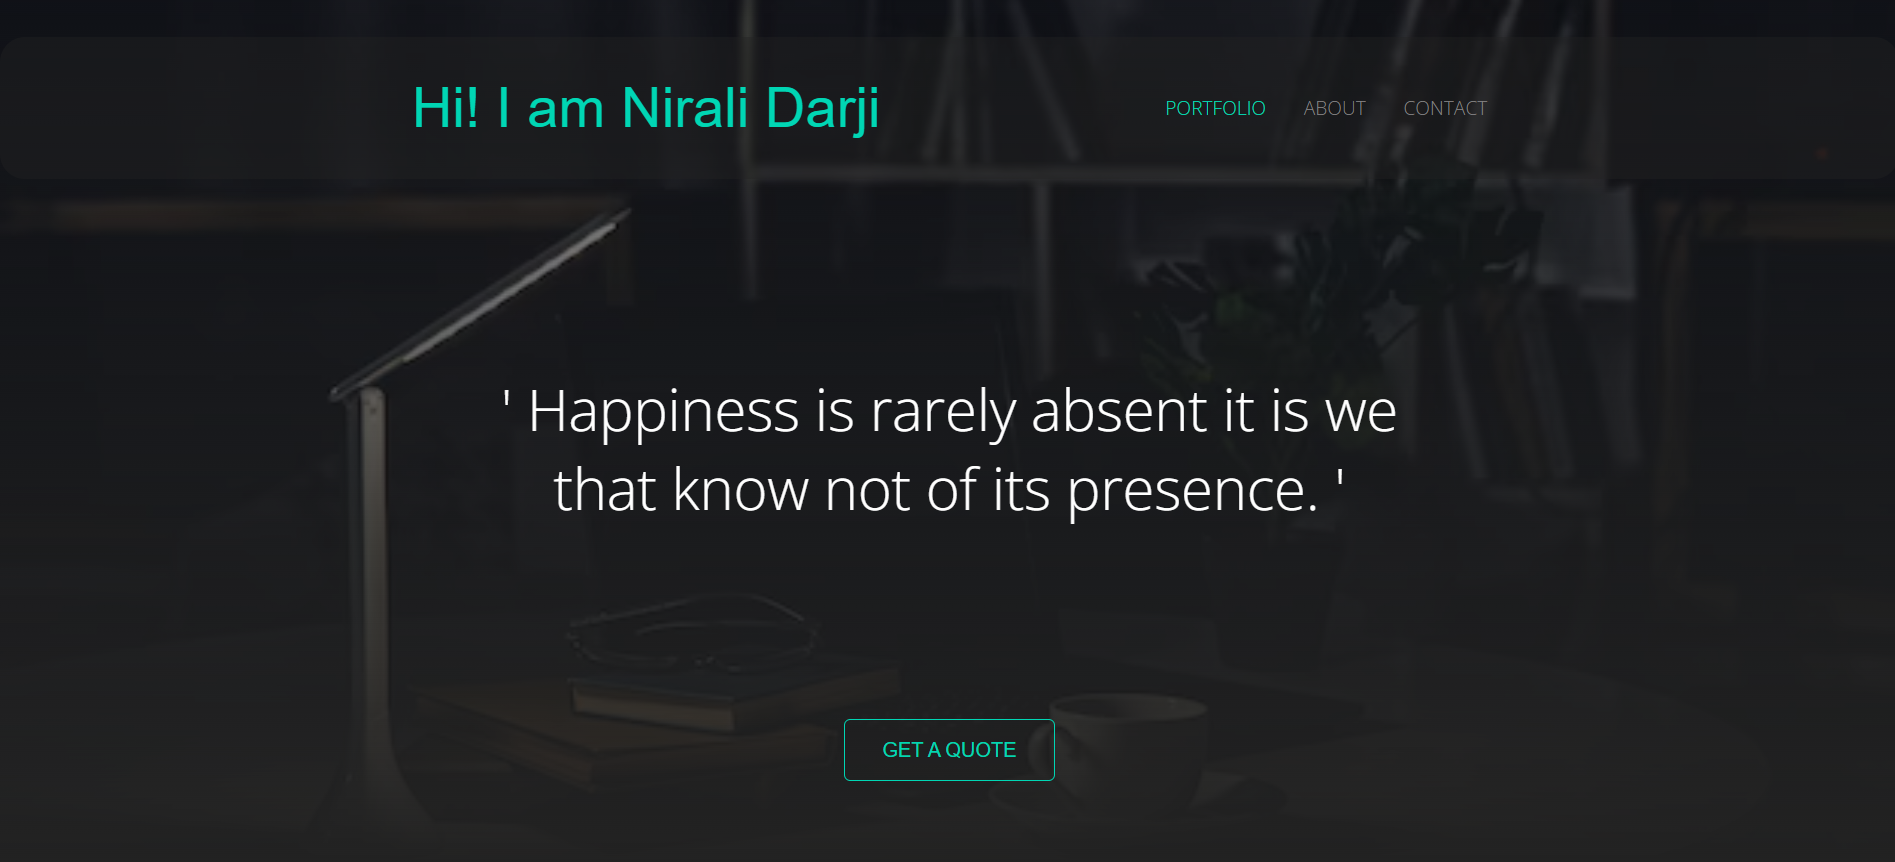
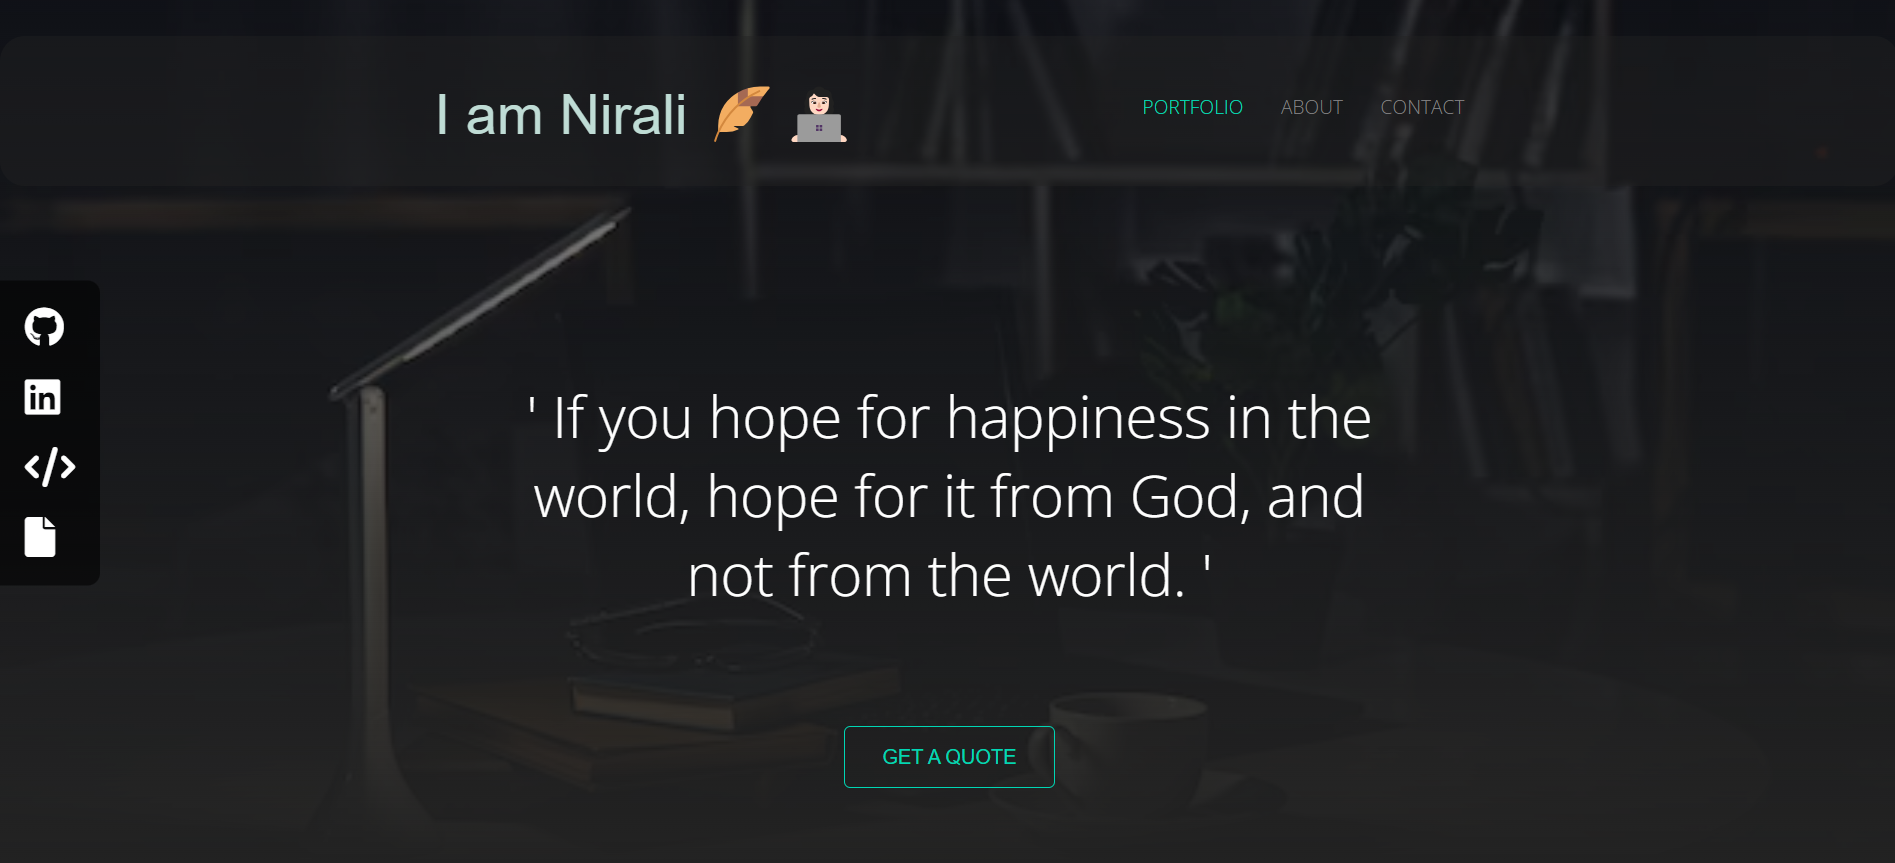
contant Added

diff --git a/index.html b/index.html
@@ -10,7 +10,7 @@
     <link type="module" href="script.js">
     <link rel="stylesheet" href="./css/style.css">
     <link rel="stylesheet" href="https://cdnjs.cloudflare.com/ajax/libs/font-awesome/6.0.0-beta3/css/all.min.css">
-
+   
     <title>Portfolio</title>
     <script type="text/script" src="jquery-3.7.1.min.js"></script>
 </head>
@@ -18,13 +18,13 @@
     <div class="container res-con">
         <div class="navbar">
             <div class="left">
-               I AM NIRALI 🪶👩🏻💻
+               I am Nirali 🪶👩🏻💻
             </div>
             <div class="right">
                 <ul>
                     <li><a href="/index.html" id="hover" class="active">PORTFOLIO</a></li>
                     <li><a href="../pages/about.html">ABOUT</a></li>
-                    <li><a href="../pages/about.html">CONTACT</a></li>
+                    <li><a href="../pages/contact.html">CONTACT</a></li>
                 </ul>
             </div>
         </div>
@@ -43,8 +43,8 @@
                 <a href="https://leetcode.com/u/Nirali_0817/" target="_blank">
                     <i class="fas fa-code"></i>
                 </a>
-                <a href="https://www.codechef.com/users/yourusername" target="_blank">
-                    <i class="fas fa-utensils"></i>
+                <a href="https://drive.google.com/file/d/1yliqqgGwAsQMHdKzP_icV3ytyHpk0CRw/view?usp=drive_link" target="_blank">
+                    <i class="fa-solid fa-file"></i>
                 </a>
             </div>
         </div>
@@ -129,7 +129,7 @@
         <div class="skill">
             <h3>React</h3>
             <div class="skill-bar">
-                <div class="progress" data-progress="70%"></div>
+                <div class="progress" data-progress="60%"></div>
             </div>
         </div>
         <div class="skill">
@@ -141,19 +141,19 @@
         <div class="skill">
             <h3>MongoDB</h3>
             <div class="skill-bar">
-                <div class="progress" data-progress="70%"></div>
+                <div class="progress" data-progress="50%"></div>
             </div>
         </div>
         <div class="skill">
             <h3>NodeJS</h3>
             <div class="skill-bar">
-                <div class="progress" data-progress="70%"></div>
+                <div class="progress" data-progress="60%"></div>
             </div>
         </div>
         <div class="skill">
             <h3>ExpressJS</h3>
             <div class="skill-bar">
-                <div class="progress" data-progress="70%"></div>
+                <div class="progress" data-progress="60%"></div>
             </div>
         </div>
     </div>

diff --git a/pages/about.html b/pages/about.html
@@ -43,8 +43,8 @@
                 <a href="https://leetcode.com/u/Nirali_0817/" target="_blank">
                     <i class="fas fa-code"></i>
                 </a>
-                <a href="https://www.codechef.com/users/yourusername" target="_blank">
-                    <i class="fas fa-utensils"></i>
+                <a href="https://drive.google.com/file/d/1yliqqgGwAsQMHdKzP_icV3ytyHpk0CRw/view?usp=drive_link" target="_blank">
+                    <i class="fa-solid fa-file"></i>
                 </a>
             </div>
         </div>
@@ -63,7 +63,7 @@
         </div>
     </div>
     <div class="aboutMe">
-    <img src="../images/Nirali_profile.JPG" class="profileImage"></img>
+    <img src="../images/Nirali_Profile.jpeg" class="profileImage"></img>
     <p class="peragraph">Greetings! I am Nirali Darji, currently pursuing a degree in Bachelor's in computer engineering at L.D. College of Engineering. I am in my 7th semester and I completed my higher secondary education in Rajkot.
         I have a strong interest in web development and am familiar with front-end technologies like HTML, CSS, and JavaScript. I am currently learning ReactJS to further enhance my skills. In addition, I have experience with back-end technologies such as NodeJS, ExpressJS, MongoDB, and MySQL.
         </p>

diff --git a/script.js b/script.js
@@ -1,6 +1,6 @@
 
 var YOUR_API_KEY = "vA1NYmJf3Y0VztGDCoUSfoGaEECCWbo9JaCfKlzB";
-var category = 'happiness';
+var category = 'inspirational';
 
 var getQuotes = () => {
     fetch('https://api.api-ninjas.com/v1/quotes?category=' + category,
@@ -17,17 +17,23 @@ const addData = (data) =>{
    quote.innerHTML = "' " + text +" '";
 }
 
+setInterval(() => {
+    mainHeading.style.transform = "translatey(calc(200px - 100%))";     
+    getQuotes();
+    setTimeout(()=>{
+        mainHeading.style.transform = "translatey(0)"; 
+    },2000);
+},5000)
 
 const mainHeading = document.querySelector('.mainHeading');
 
 window.onload = ()=>{
-        mainHeading.style.transform = "translatey(0)";
-
-    
+        mainHeading.style.transform = "translatey(0)";   
 }
 
 
-document.addEventListener("DOMContentLoaded", function() {
+
+document.addEventListener("scroll", function() {
     const progressBars = document.querySelectorAll('.progress');
 
     progressBars.forEach(bar => {
